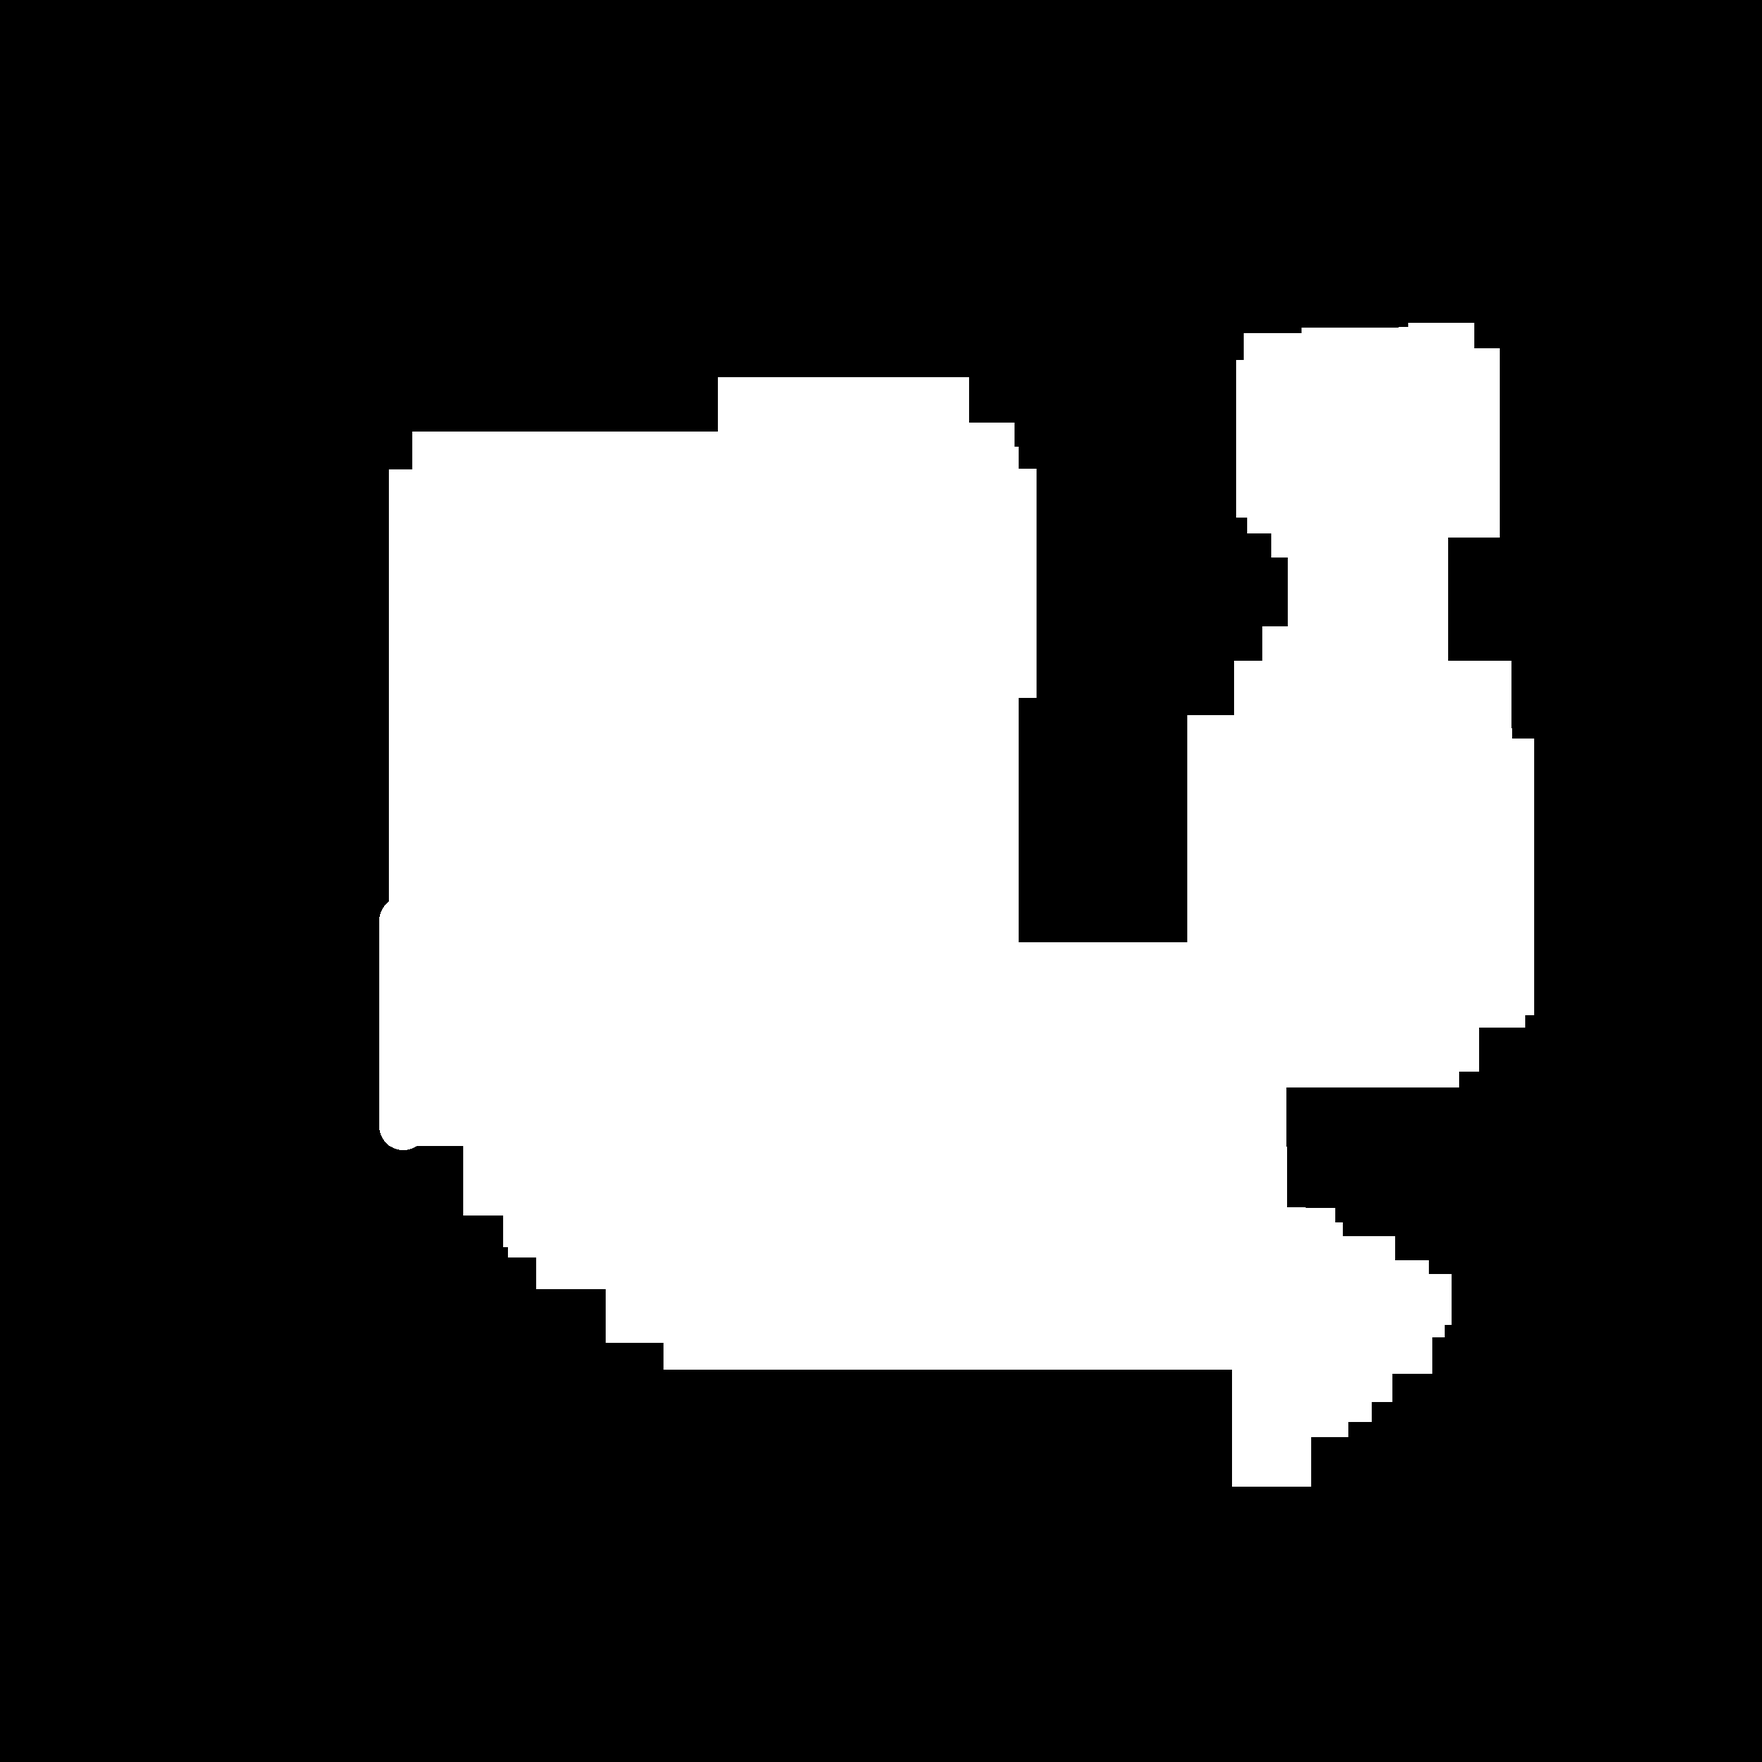
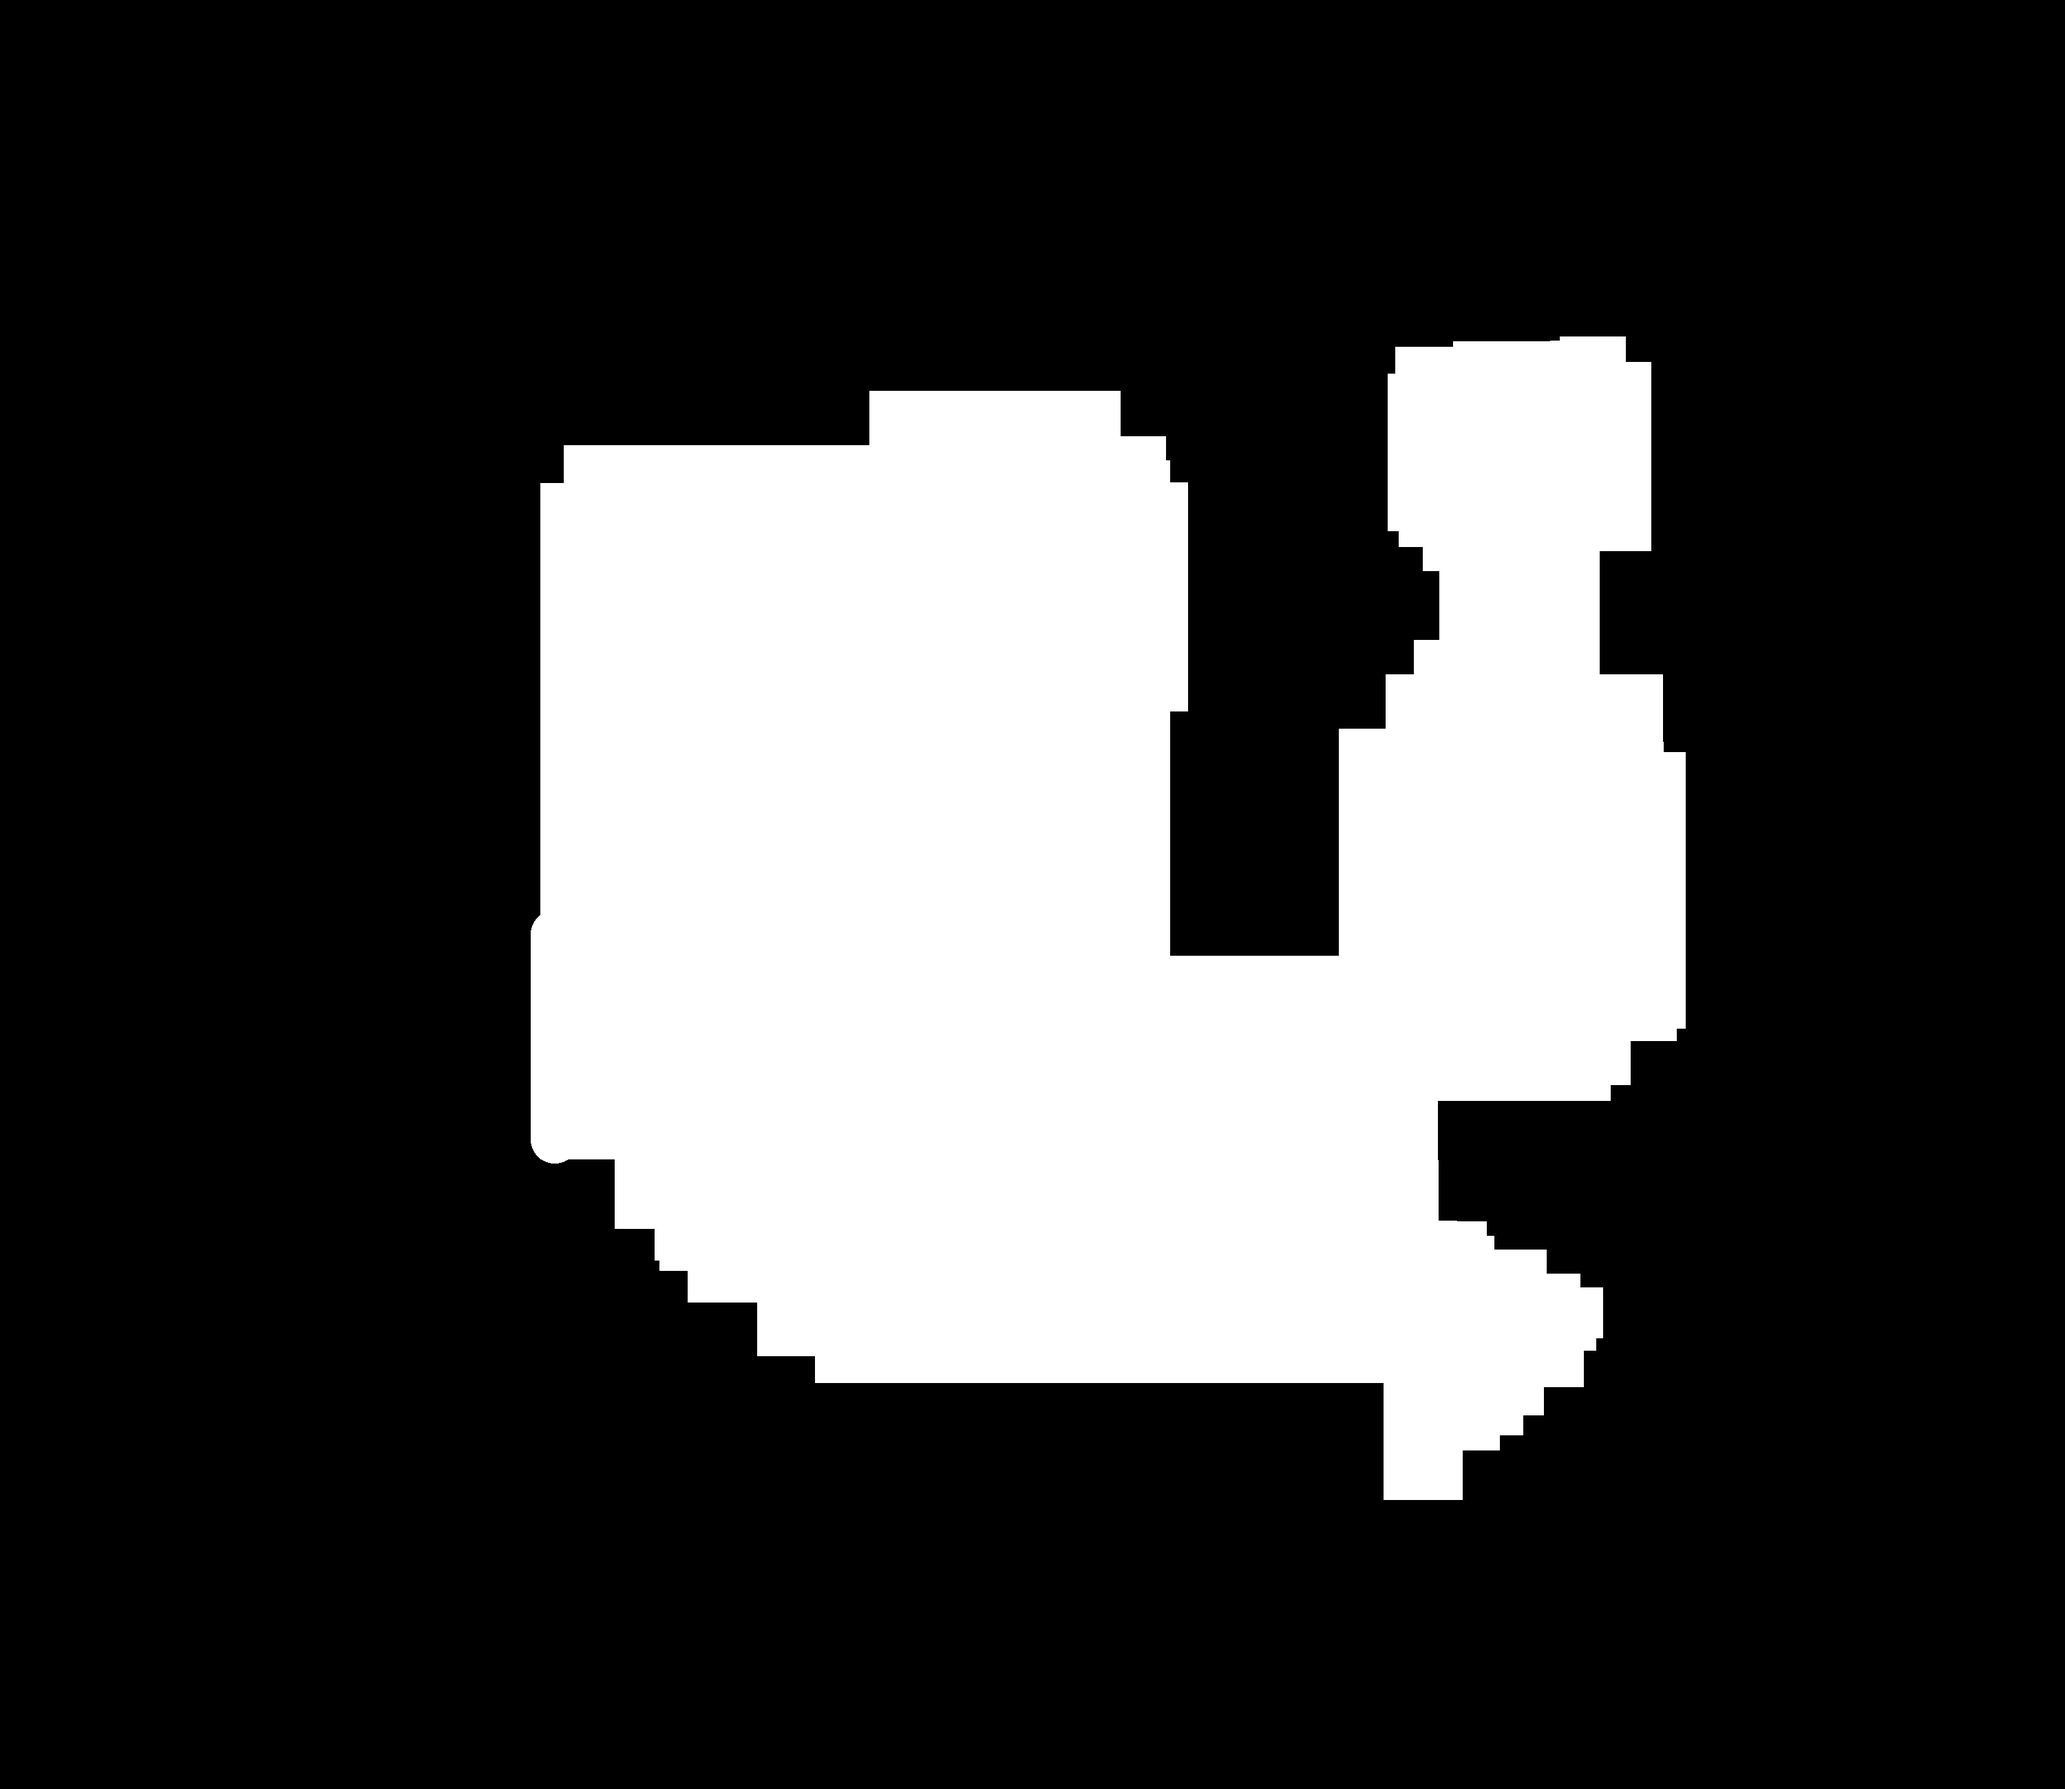
commit #33 - see readme

Changed region(s): [[0.1875, 0.1875, 0.8438, 0.8438], [0.625, 0.1562, 0.875, 0.625], [0.5312, 0.2188, 0.5938, 0.5312]]

diff --git a/src/scenes/Second.js b/src/scenes/Second.js
@@ -14,9 +14,6 @@ class Second extends Phaser.Scene {
         keyD = this.input.keyboard.addKey(Phaser.Input.Keyboard.KeyCodes.D);
         keyR = this.input.keyboard.addKey(Phaser.Input.Keyboard.KeyCodes.R);
         keyM = this.input.keyboard.addKey(Phaser.Input.Keyboard.KeyCodes.M);
-        keySPACE = this.input.keyboard.addKey(Phaser.Input.Keyboard.KeyCodes.SPACE);
-        keyONE = this.input.keyboard.addKey(Phaser.Input.Keyboard.KeyCodes.ONE);
-        keyTWO = this.input.keyboard.addKey(Phaser.Input.Keyboard.KeyCodes.TWO);
 
         // music
         if (game.settings.musicIsOn == false) {
@@ -31,7 +28,7 @@ class Second extends Phaser.Scene {
         // layers
         this.wpBot = this.add.tileSprite(0, 0, game.config.width, game.config.height, 'bg1').setScale(2).setOrigin(0).setScrollFactor(0);
         this.wpTop = this.add.tileSprite(0, 0, game.config.width, game.config.height, 'bg2').setScale(2).setOrigin(0).setScrollFactor(0);
-        this.wpBlack = this.add.tileSprite(-255, -46, 2560, 2560, 'bgBlack2').setOrigin(0); //-65
+        this.wpBlack = this.add.tileSprite(-475, -68, 3000, 2600, 'bgBlack2').setOrigin(0); //-65
         let topLayer = map.createStaticLayer("top", [terrain], 0, 0);
 
         // player + cam

diff --git a/src/scenes/First.js b/src/scenes/First.js
@@ -14,9 +14,6 @@ class First extends Phaser.Scene {
         keyD = this.input.keyboard.addKey(Phaser.Input.Keyboard.KeyCodes.D);
         keyR = this.input.keyboard.addKey(Phaser.Input.Keyboard.KeyCodes.R);
         keyM = this.input.keyboard.addKey(Phaser.Input.Keyboard.KeyCodes.M);
-        keySPACE = this.input.keyboard.addKey(Phaser.Input.Keyboard.KeyCodes.SPACE);
-        keyONE = this.input.keyboard.addKey(Phaser.Input.Keyboard.KeyCodes.ONE);
-        keyTWO = this.input.keyboard.addKey(Phaser.Input.Keyboard.KeyCodes.TWO);
 
         // music
         if (game.settings.musicIsOn == false) {

diff --git a/src/scenes/Menu.js b/src/scenes/Menu.js
@@ -6,7 +6,6 @@ class Menu extends Phaser.Scene {
     create() {
         keyP = this.input.keyboard.addKey(Phaser.Input.Keyboard.KeyCodes.P);
         keyT = this.input.keyboard.addKey(Phaser.Input.Keyboard.KeyCodes.T);
-        keySPACE = this.input.keyboard.addKey(Phaser.Input.Keyboard.KeyCodes.SPACE);
 
         this.wpBot = this.add.tileSprite(0, 0, game.config.width, game.config.height, 'bg1').setScale(2).setOrigin(0).setScrollFactor(0);
         this.wpTop = this.add.tileSprite(0, 0, game.config.width, game.config.height, 'bg2').setScale(2).setOrigin(0).setScrollFactor(0);

diff --git a/src/main.js b/src/main.js
@@ -34,4 +34,4 @@ game.settings = {
 }
 
 // reserve keyboard variables
-let keyA, keyD, keyR, keyM, keyT, keyP, keySPACE, keyONE, keyTWO;
+let keyA, keyD, keyR, keyM, keyT, keyP;

diff --git a/README.md b/README.md
@@ -89,3 +89,5 @@ Commit #30: Implemented most of the turrets. Need a few more, and possibly some 
 Commit #31: Added balances to lvl2. Finished turrets. Did some repositioning. Fixed remaining bugs.
 
 Commit #32: Game is done! Fixed up menu and win screens. Also some level updates.
+
+Commit #33: Removed some excess hotkeys and debug features (area/scene skipping). Fixed black border.
